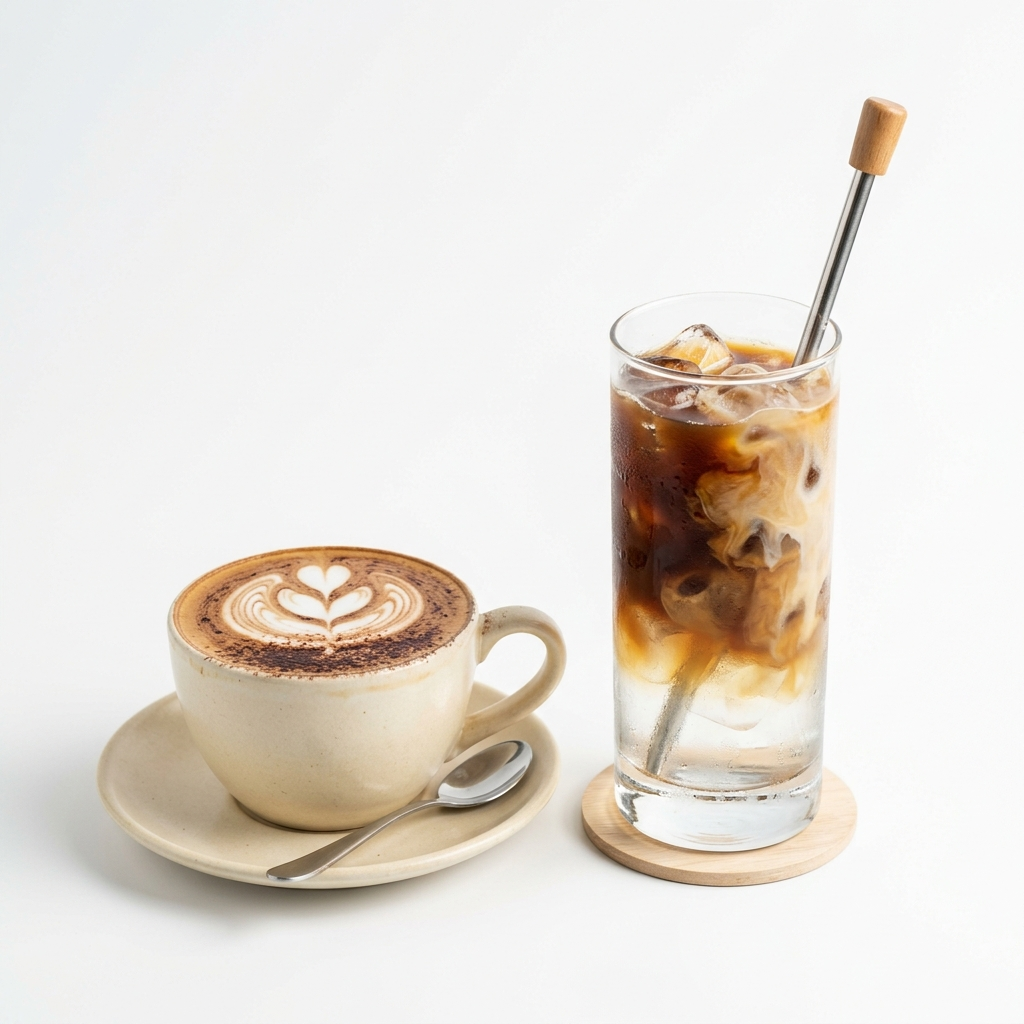
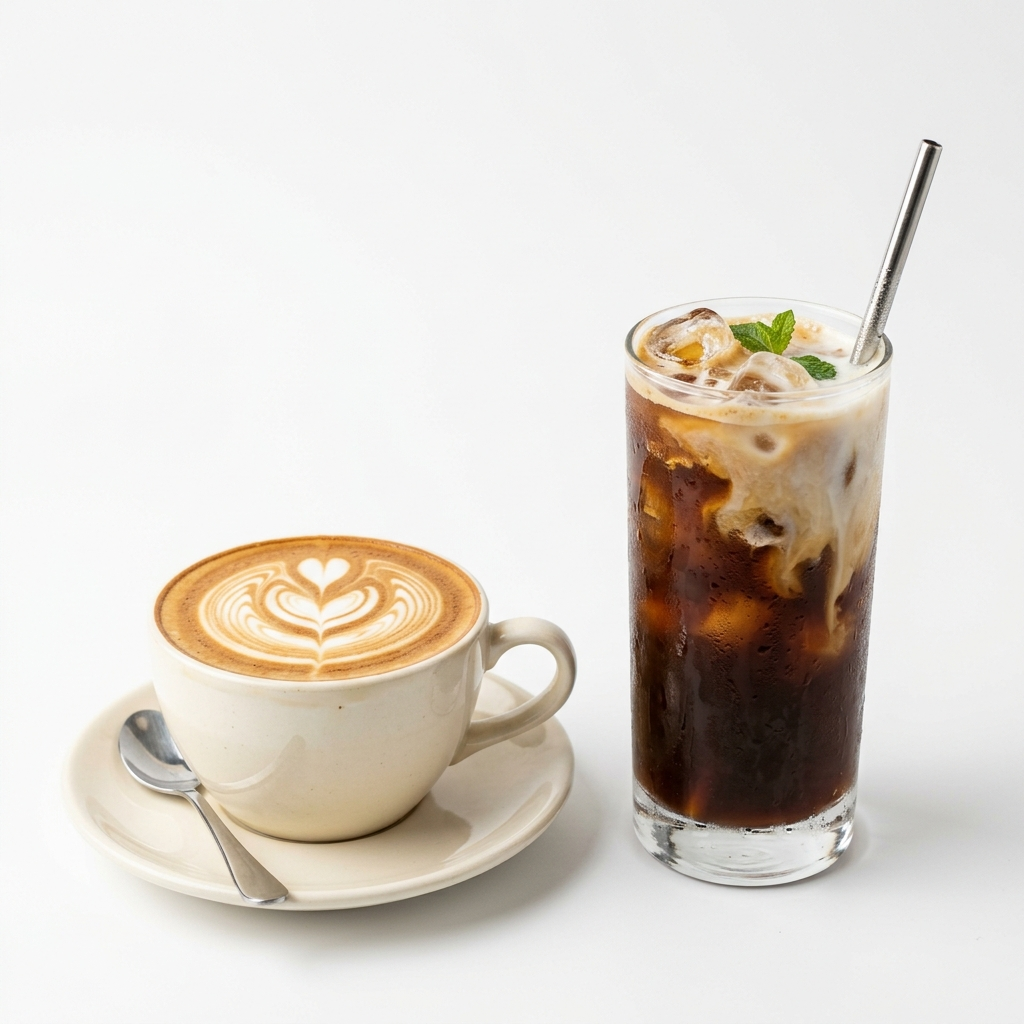
fix: revert homepage category slider to main categories and fix brews and rolls image assets

diff --git a/src/components/home/category-grid.tsx b/src/components/home/category-grid.tsx
@@ -71,57 +71,11 @@ const categoryPhotos: Record<string, string> = {
   'bakery-biscuits': '/bakery_biscuits_category.png',
   'atta-rice-dal': '/atta_rice_dal_category.png',
   'ice-cream': '/ice_cream_category.png',
+  'cafe': '/cafe_category.png',
 }
 
 export function CategoryGrid({ categories }: CategoryGridProps) {
-  // Fetch settings dynamically to get latest cafe menu sections
-  const [cafeSections, setCafeSections] = useState<any[]>([])
-
-  useEffect(() => {
-    fetch('/api/settings')
-      .then(res => res.json())
-      .then(data => {
-        const customSectionsStr = data.cafe_menu_sections || data.CAFE_MENU_SECTIONS
-        if (customSectionsStr) {
-          try {
-            const parsed = JSON.parse(customSectionsStr)
-            if (Array.isArray(parsed) && parsed.length > 0) {
-              setCafeSections(parsed)
-            }
-          } catch(e) {}
-        }
-      })
-      .catch(() => {})
-  }, [])
-
-  const displayCafeSections = cafeSections.length > 0 
-    ? cafeSections 
-    : [
-        { tag: 'hot-beverage', emoji: '☕' },
-        { tag: 'hot-bite', emoji: '🥟' },
-        { tag: 'sandwiches', emoji: '🥪' },
-        { tag: 'frankie-rolls', emoji: '🌯' },
-        { tag: 'chinese', emoji: '🥡' },
-        { tag: 'italian-pasta', emoji: '🍝' },
-        { tag: 'bombay-bites', emoji: '🥪' },
-        { tag: 'rice-dishes', emoji: '🍚' }
-      ]
-
-  const cafePseudoCategories = displayCafeSections.map((sec, idx) => ({
-    id: `cafe-section-${sec.tag}`,
-    name: getCafeSectionTitle(sec.tag),
-    slug: sec.tag,
-    imageUrl: getCafeSectionImage(sec.tag),
-    isCafeSection: true,
-    emoji: sec.emoji || '🍽️',
-    parentId: null,
-    sortOrder: 100 + idx
-  }))
-
-  const allDisplayCategories: Array<Category & { isCafeSection?: boolean; emoji?: string }> = [
-    ...categories.filter(c => c.slug !== 'cafe'),
-    ...cafePseudoCategories
-  ]
+  const allDisplayCategories: Array<Category & { isCafeSection?: boolean; emoji?: string }> = categories
 
   // Map of category slugs to visual themes with glowing rings
   const colorMap: Record<string, { bg: string; text: string; gradient: string; ring: string }> = {
@@ -179,6 +133,12 @@ export function CategoryGrid({ categories }: CategoryGridProps) {
       gradient: 'from-teal-100/30 to-teal-50/10 dark:from-teal-500/10 dark:to-transparent', 
       ring: 'group-hover:border-teal-500/50 group-hover:shadow-[0_0_15px_rgba(20,184,166,0.35)] dark:group-hover:shadow-[0_0_15px_rgba(20,184,166,0.5)]' 
     },
+    'cafe': { 
+      bg: 'bg-amber-50 dark:bg-amber-500/5', 
+      text: 'text-amber-500 dark:text-amber-400', 
+      gradient: 'from-amber-100/30 to-amber-50/10 dark:from-amber-500/10 dark:to-transparent', 
+      ring: 'group-hover:border-amber-500/50 group-hover:shadow-[0_0_15px_rgba(245,158,11,0.35)] dark:group-hover:shadow-[0_0_15px_rgba(245,158,11,0.5)]' 
+    },
   }
 
   const mobileColorMap: Record<string, { bg: string; text: string; label: string; emoji: string }> = {
@@ -191,6 +151,7 @@ export function CategoryGrid({ categories }: CategoryGridProps) {
     'bakery-biscuits': { bg: 'bg-[#efebe9] dark:bg-amber-950/10', text: 'text-[#4e342e]', label: 'Bakery', emoji: '🥐' },
     'atta-rice-dal': { bg: 'bg-[#fffde7] dark:bg-yellow-950/20', text: 'text-[#fbc02d]', label: 'Staples', emoji: '🌾' },
     'ice-cream': { bg: 'bg-[#e0f2f1] dark:bg-teal-950/20', text: 'text-[#00796b]', label: 'Ice Cream', emoji: '🍦' },
+    'cafe': { bg: 'bg-[#fff8e1] dark:bg-amber-950/20', text: 'text-[#f57f17]', label: 'Cafe', emoji: '☕' },
   }
 
   return (